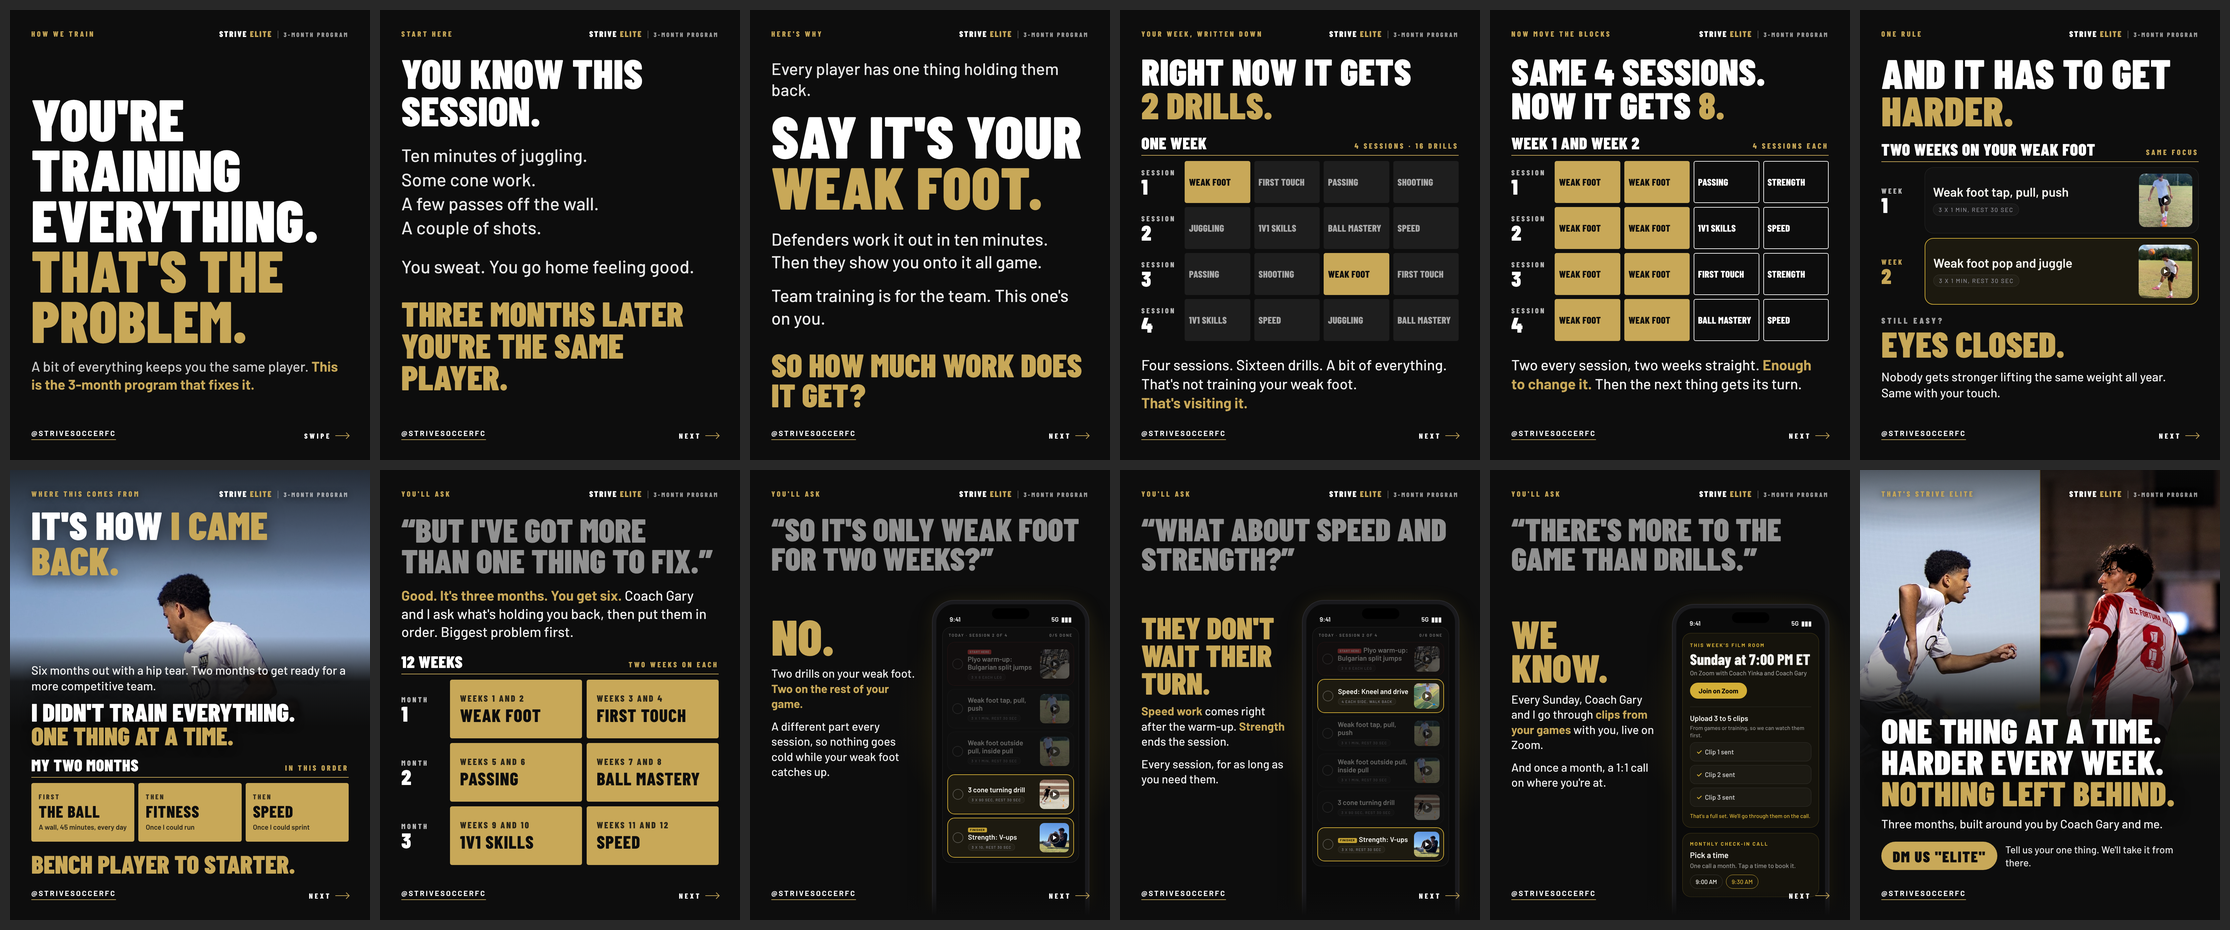
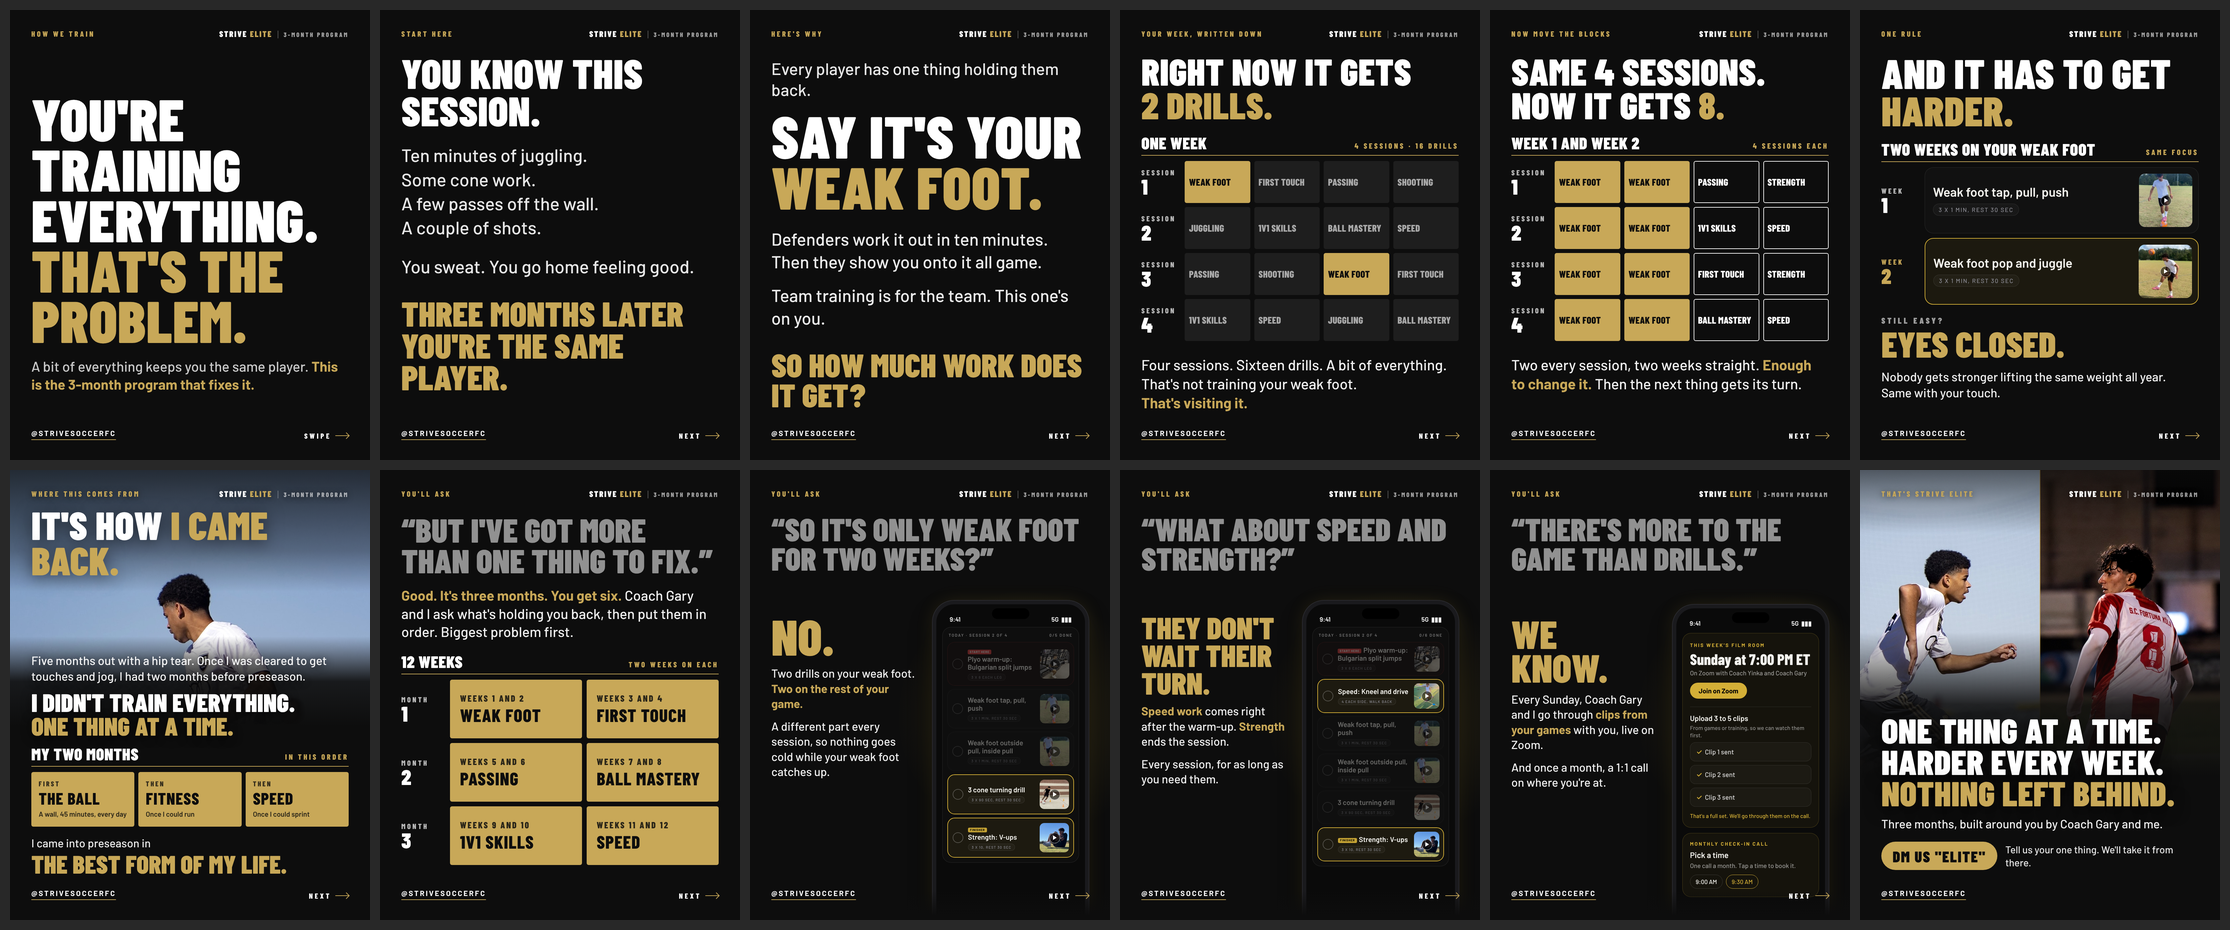
Opinion carousel: comeback slide in his words (five months out, best form of my life)
Claude-Session: https://claude.ai/code/session_011JsCTTjCbUkHbTuWTKQSXJ

Changed region(s): [[0.0, 0.686, 0.1547, 0.9355]]

diff --git a/marketing/program/one-thing-carousel-3/07-story.html b/marketing/program/one-thing-carousel-3/07-story.html
@@ -7,23 +7,23 @@ h1{position:absolute;left:64px;right:64px;top:110px;font-size:118px;text-shadow:
 .p{font-size:36px;line-height:1.3;text-shadow:0 4px 24px rgba(0,0,0,.8)}
 .k{margin-top:18px;font-family:'Barlow Condensed';font-weight:900;font-size:76px;line-height:.94;text-transform:uppercase;color:#fff;text-shadow:0 4px 30px rgba(0,0,0,.7)}
 .k span{color:#c8a858}
-.sched{margin-top:30px}
+.sched{margin-top:26px}
 .tt3{display:grid;grid-template-columns:repeat(3,1fr);gap:12px}
-.tt3 .bk{height:176px;font-size:50px;padding:0 22px}
+.tt3 .bk{height:164px;font-size:50px;padding:0 22px}
 .tt3 .bk small{font-size:21px;margin-bottom:8px;opacity:.8}
 .tt3 .bk i{display:block;margin-top:10px;font-family:'Barlow';font-style:normal;font-weight:600;font-size:21px;line-height:1.2;letter-spacing:0;text-transform:none;opacity:.85}
-.res{margin-top:30px;display:flex;align-items:baseline;gap:20px;flex-wrap:wrap}
+.res{margin-top:28px}
 .res b{font-family:'Barlow Condensed';font-weight:900;font-size:76px;line-height:.94;text-transform:uppercase;color:#c8a858}
-.res span{font-size:32px;font-weight:500;color:rgba(255,255,255,.9)}
+.res span{display:block;font-size:34px;font-weight:500;color:rgba(255,255,255,.92);margin-bottom:6px}
 .top .wm,.top .step{text-shadow:0 2px 18px rgba(0,0,0,.6)}
 </style>
 <div class="ph"></div><div class="sh"></div>
 <div class="top"><div class="step">Where this comes from</div><div class="wm">Strive <span>Elite</span><em>3-month program</em></div></div>
 <h1>It's how <span>I came back.</span></h1>
 <div class="low">
-<p class="p">Six months out with a hip tear. Two months to get ready for a more competitive team.</p>
+<p class="p">Five months out with a hip tear. Once I was cleared to get touches and jog, I had two months before preseason.</p>
 <div class="k">I didn&#39;t train everything.<br><span>One thing at a time.</span></div>
 <div class="sched"><div class="hd"><b>My two months</b><span>In this order</span></div>
 <div class="tt3"><div class="bk g"><small>First</small>The ball<i>A wall, 45 minutes, every day</i></div><div class="bk g"><small>Then</small>Fitness<i>Once I could run</i></div><div class="bk g"><small>Then</small>Speed<i>Once I could sprint</i></div></div></div>
-<div class="res"><b>Bench player to starter.</b></div></div>
+<div class="res"><span>I came into preseason in</span><b>the best form of my life.</b></div></div>
 <div class="handle">@strivesoccerfc</div><div class="swipe">Next <i></i></div>

diff --git a/CLAUDE.md b/CLAUDE.md
@@ -4021,6 +4021,7 @@ commit.
       THEN (Coach Yinka, on the harder slide: "3rd we need a weak foot drill like pop it up and first touch or wall work first touch for the harder version"): the Week 2 card is now "Weak foot pop and settle", 3 x 10 reps, rest 30 sec (the bank's title and reps), with a frame of its clip (app/weak-foot-pop-and-settle.jpg); "Wall pass, touch behind the leg" is off the slide. FLAGS: the bank has pop and settle at level 1 (easier) and tap, pull, push at level 1 too, so the app would not yet lead a second week with it; moving it to harder is one edit at /coach/drills, his call. "Eyes closed" under a drill where the ball is in the air may not be how he would progress it. Sent, not posted.
       THEN (Coach Yinka: "Instead of pop and settle name it pop and juggle"): the Week 2 card is "Weak foot pop and juggle", 3 x 1 min, rest 30 sec (the bank's title and reps), with a frame of its own clip. The bank has it one level above tap, pull, push, so the slide now matches what the app does in a second week; the level flag above is closed. Read as the drill on the slide, not a rename of the bank's pop and settle row (untouched). Sent, not posted.
       THEN (Coach Yinka: "No keep the old pic bc it was popped up nicely then. Adjust the page of my story to make more sense with the post and to be structured better"): (1) the Week 2 card stays named "Weak foot pop and juggle" and carries the earlier frame with the ball popped up (a frame of the pop and settle clip, the same take the two drills were cut from). (2) THE COMEBACK SLIDE RESTRUCTURED to run in the post's own order and words, four parts, no paragraphs: "Six months out with a hip tear. Two months to get ready for a more competitive team." / "I DIDN'T TRAIN EVERYTHING. ONE THING AT A TIME." (the cover turned around, the close repeats it) / the schedule graphic "MY TWO MONTHS, in this order": First THE BALL (A wall, 45 minutes, every day), Then FITNESS (Once I could run), Then SPEED (Once I could sprint) / "BENCH PLAYER TO STARTER." The two lines that were my wording ("no time to fix everything at once", "the rest of my game kept moving") are gone. Sent, not posted.
+      THEN (Coach Yinka: "Just say 5 months out with a hip tear, once I was cleared to get touches/ jog, I had 2 monfhs before preseason and I came into preseason in the best form of my life"): the comeback slide carries his words: "Five months out with a hip tear. Once I was cleared to get touches and jog, I had two months before preseason." / "I DIDN'T TRAIN EVERYTHING. ONE THING AT A TIME." / My two months, in this order (the ball, fitness, speed) / "I came into preseason in THE BEST FORM OF MY LIFE." "Bench player to starter" and "a more competitive team" are off this slide. HIS STORY IS FIVE MONTHS OUT from here (the Nov 11 entries above say six, his first wording); the draft caption is updated; the shorter structure carousel's cover and drafts 1 and 2 still say six and need the same change if any of them is used. Sent, not posted.
 
 ## Skills (use them without being asked)
 

diff --git a/marketing/program/one-thing-carousel-3/README.md b/marketing/program/one-thing-carousel-3/README.md
@@ -62,11 +62,12 @@ the strength finisher or the speed drill.
    leg). Still easy? EYES CLOSED. /
    Nobody gets stronger lifting the same weight all year. Same with your
    touch.
-7. IT'S HOW I CAME BACK. / Six months out with a hip tear. Two months to
-   get ready for a more competitive team. / I DIDN'T TRAIN EVERYTHING.
-   ONE THING AT A TIME. / My two months, in this order: first the ball (a
-   wall, 45 minutes, every day), then fitness (once I could run), then
-   speed (once I could sprint). / BENCH PLAYER TO STARTER.
+7. IT'S HOW I CAME BACK. / Five months out with a hip tear. Once I was
+   cleared to get touches and jog, I had two months before preseason. /
+   I DIDN'T TRAIN EVERYTHING. ONE THING AT A TIME. / My two months, in
+   this order: first the ball (a wall, 45 minutes, every day), then
+   fitness (once I could run), then speed (once I could sprint). / I came
+   into preseason in THE BEST FORM OF MY LIFE. (His words, Nov 11.)
 8. "BUT I'VE GOT MORE THAN ONE THING TO FIX." / Good. It's three months.
    You get six. Coach Gary and I ask what's holding you back, then put
    them in order. Biggest problem first.
@@ -100,7 +101,7 @@ Train a bit of everything and it gets two drills a week out of sixteen. Two. Tha
 
 Give it two drills every session for two weeks. Make week two harder than week one. Keep the rest of the session for the rest of your game so nothing goes cold. Then move to the next thing.
 
-That is how I came back from six months out with a hip tear. It is how Coach Gary and I build every Strive Elite player's three months.
+That is how I came back from five months out with a hip tear, in the best form of my life. It is how Coach Gary and I build every Strive Elite player's three months.
 
 DM ELITE and tell us your one thing.
 
